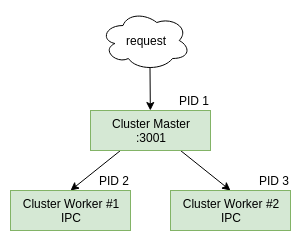
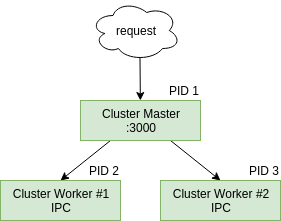
node-avoid-cluster: last minute changes

diff --git a/node-avoid-cluster/index.html b/node-avoid-cluster/index.html
@@ -169,6 +169,10 @@ section.intro img {
         </section>
         -->
 
+        <section>
+          <h3>Situation: You're Building a Web Service</h3>
+        </section>
+
 
         <section id="chapter-intro">
           <h3>Problem: One Process isn't Enough</h3>
@@ -192,11 +196,9 @@ section.intro img {
         </section>
 
 
-        <!--
         <section>
-          <h3>What tools are available to<br />run multiple processes?</h3>
+          <h3>What tools are available<br />to run multiple processes?</h3>
         </section>
-        -->
 
 
         <section id="chapter-1">
@@ -205,7 +207,7 @@ section.intro img {
 
 
         <section>
-          <h3><code>cluster</code> makes Clustering Easy</h3>
+          <h3><code>cluster</code> makes Scaling Easy</h3>
 
 <pre><code class="javascript">const cluster = require('cluster');
 const http = require('http');
@@ -218,18 +220,19 @@ if (cluster.isMaster) {
   http.createServer((_req, res) =&gt; {
     res.writeHead(200);
     res.end(`Hello World! ${LUCKY_NUMBER}`);
-  }).listen(3001);
+  }).listen(3000);
   console.log(`Worker ${process.pid} started`);
 }</code></pre>
         </section>
 
 
         <section>
-          <h3>Docs make <code>cluster</code> look Magical</h3>
+          <h3><code>cluster</code> makes Scaling <em>too</em> Easy</h3>
           <ul>
             <li>The docs make it <em>look</em> like a single global</li>
             <li>Is the <code>LUCKY_NUMBER</code> variable shared?</li>
             <li>Does the master process use the <code>http</code> module?</li>
+            <li>How does this thing actually work?!</li>
           </ul>
         </section>
 
@@ -248,7 +251,7 @@ const LUCKY_NUMBER = Math.random();
 require('http').createServer((_req, res) =&gt; {
   res.writeHead(200);
   res.end(`Hello World! ${LUCKY_NUMBER}`);
-}).listen(3001);
+}).listen(3000);
 console.log(`Worker ${process.pid} started`);</code></pre>
         </section>
 
@@ -286,23 +289,23 @@ console.log(`Worker ${process.pid} started`);</code></pre>
 
 
         <section>
-          <h3>Why is <code>cluster</code> Undesirable?</h3>
+          <h3><code>cluster</code> has its Shortcomings</h3>
           <ul>
-            <li>It only works with workers on the same machine!
+            <li>Master and Workers must be on the same machine!
               <ul>
                 <li>Still left with RAM and CPU contention</li>
               </ul>
             </li>
-            <li>Runs 3 Node.js instances instead of 2
+            <li>Requires 3 Node.js instances instead of 2
               <ul>
-                <li>In practice, many apps load all modules in master</li>
+                <li>In practice, many apps load all modules in Master</li>
               </ul>
             </li>
             <li>Layer 4 routing, doesn't route long-lived requests
               <ul>
                 <li>Routes TCP connection, unaware of “messages”</li>
-                <li>Consider gRPC over HTTP2</li>
-                <li>All messages from a client go to same worker</li>
+                <li>For example, gRPC over HTTP2</li>
+                <li>All calls from one client are sent to same Worker</li>
                 <!-- https://gist.github.com/thpham/114d20de8472b2cef966 -->
               </ul>
             </li>
@@ -325,7 +328,7 @@ console.log(`Worker ${process.pid} started`);</code></pre>
             <li>Sanitize requests, sticky sessions, modify headers</li>
           </ul>
 
-          <img height="280" src="images/reverse-proxy.png" />
+          <img height="80" src="images/reverse-proxy-high-level.png" />
         </section>
 
 
@@ -345,7 +348,7 @@ console.log(`Worker ${process.pid} started`);</code></pre>
           <h3>HAProxy Configuration</h3>
 
           <ul>
-            <li>Basic routing to two backends</li>
+            <li>Route incoming requests to two backends</li>
           </ul>
 
           <pre><code class="toml">defaults
@@ -358,6 +361,17 @@ frontend inbound
 backend web-api
   server web-api-1 localhost:3001
   server web-api-2 localhost:3002</code></pre>
+        </section>
+
+
+        <section>
+          <h3>HAProxy Configuration</h3>
+
+          <ul>
+            <li>Route incoming requests to two backends</li>
+          </ul>
+
+          <img height="280" src="images/reverse-proxy.png" />
         </section>
 
 
@@ -452,7 +466,7 @@ backend web-api
           <ul>
             <li>Follow me: <code><a href="https://twitter.com/tlhunter" title="Twitter @tlhunter">@tlhunter</a></code></li>
             <li>This presentation: <code><a href="http://bit.ly/3bBHuYY" title="Friends don't let friends Cluster">bit.ly/3bBHuYY</a></code></li>
-            <li>Benchmark Code: <code><a href="https://bit.ly/39AgMxS">bit.ly/39AgMxS</a></code></li>
+            <li>Benchmark repo: <code><a href="https://bit.ly/39AgMxS">bit.ly/39AgMxS</a></code></li>
             <li>Adapted from <em>Distributed Node.js (O'Reilly, ~2021)</em></li>
           </ul>
         </section>
